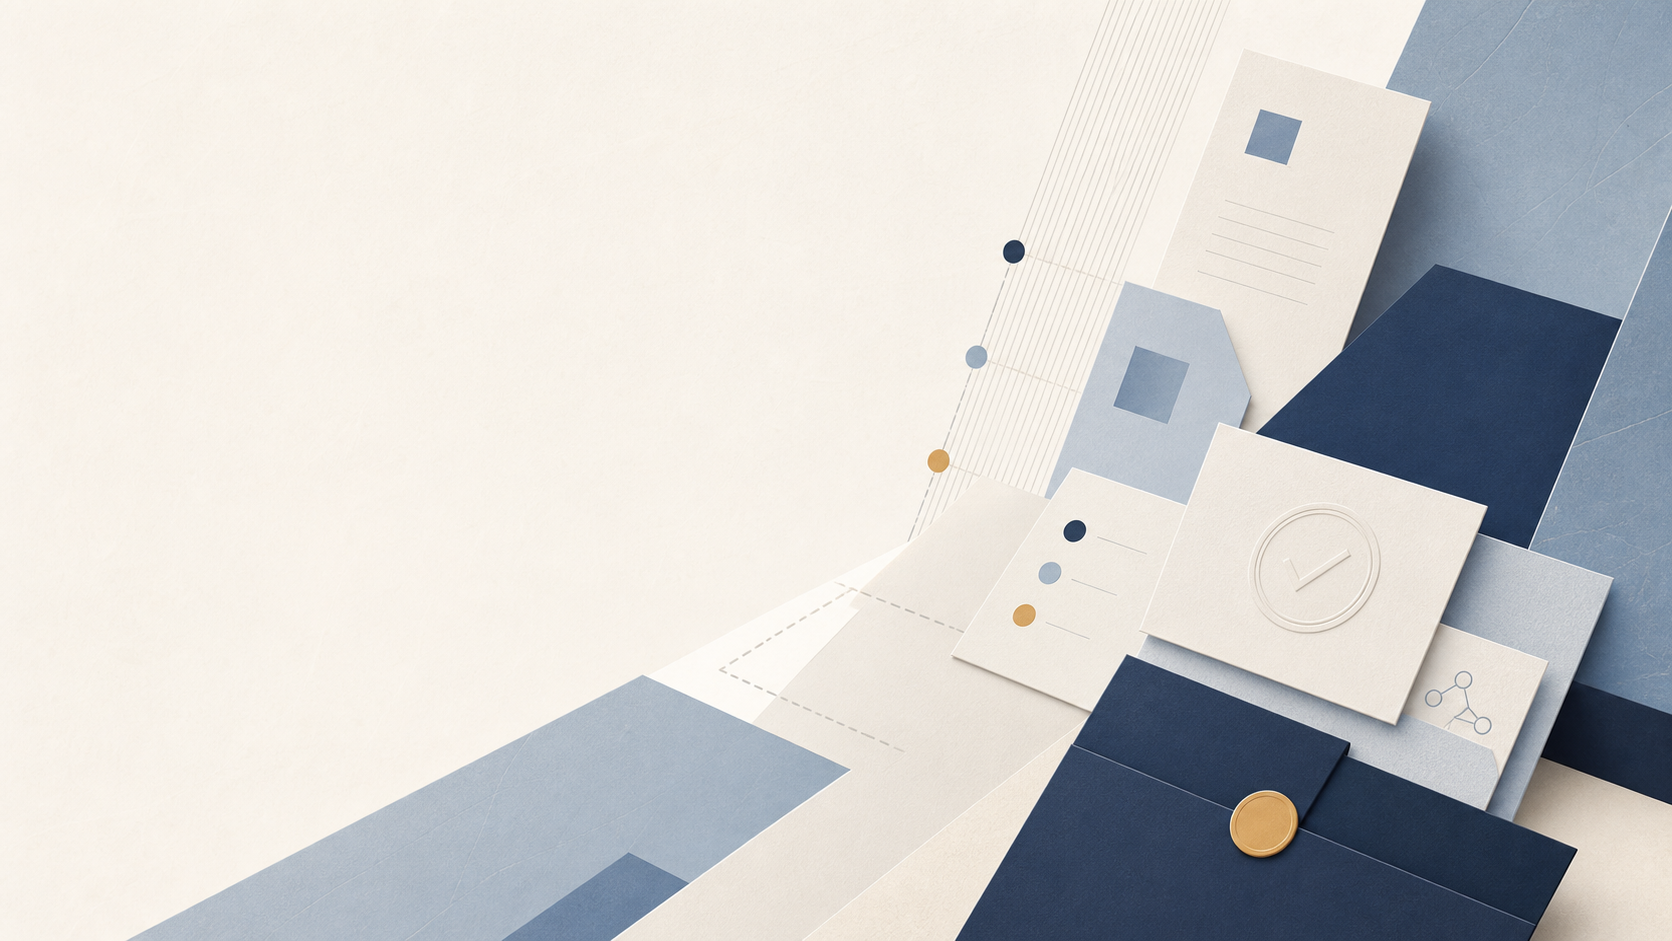
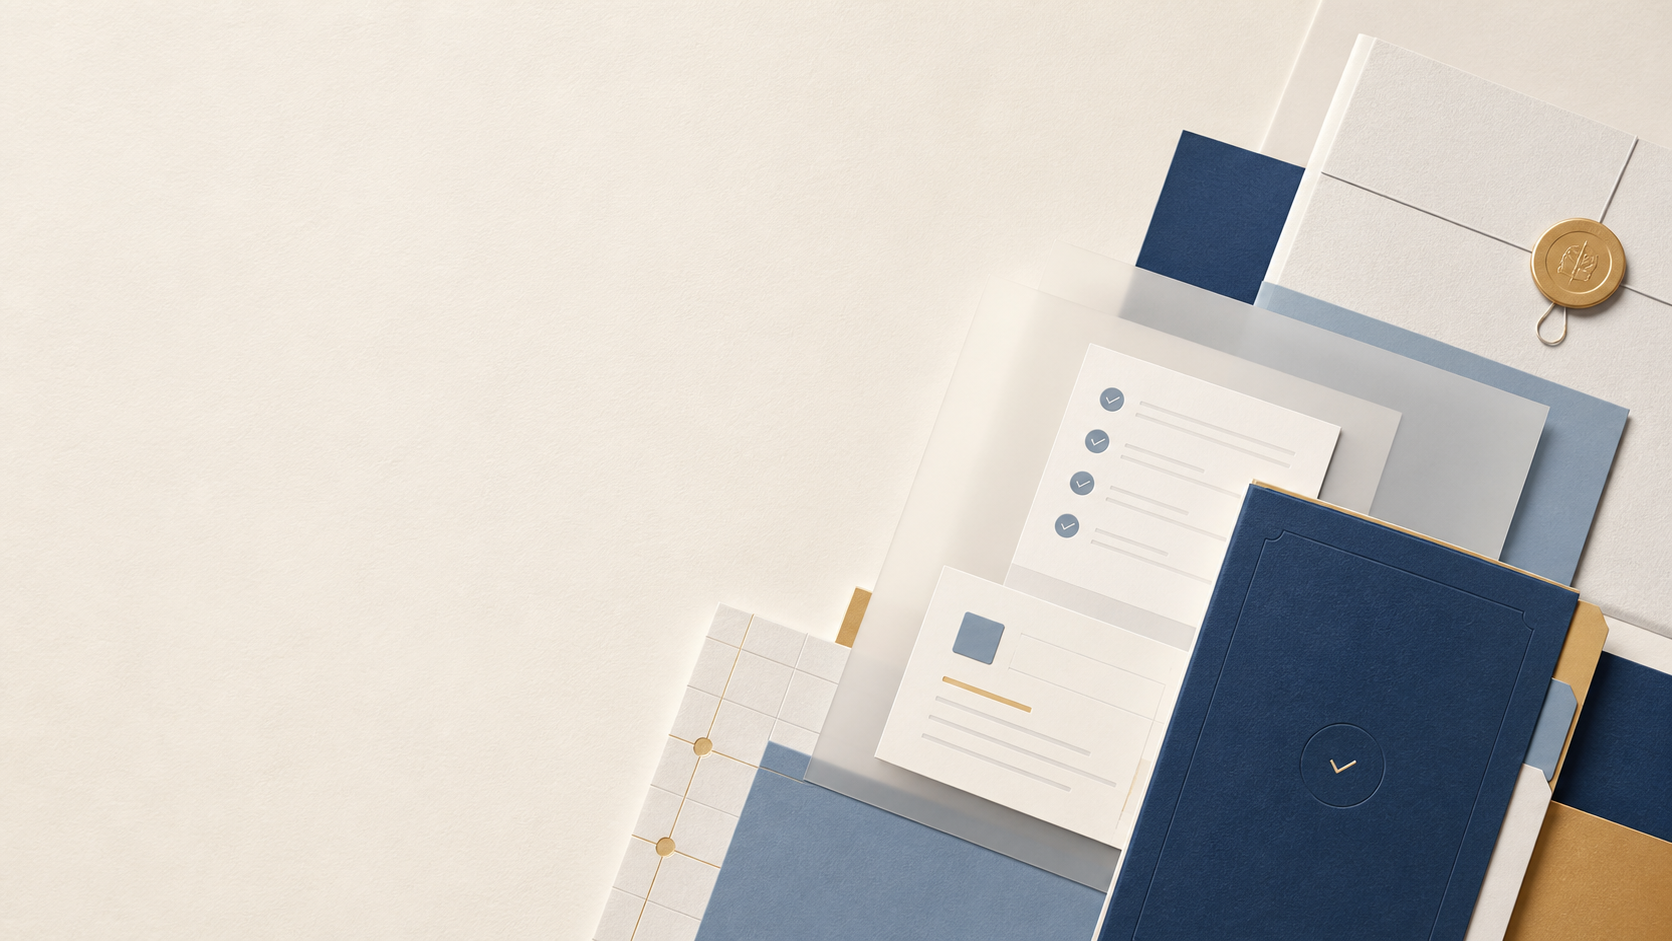
Allow live Codex image turns to finish
A real Codex OAuth image generation turn completed successfully after 252553ms, which is longer than the desktop Tauri bridge's previous 180s structured-turn timeout. The image path now opts into a 600000ms turn timeout while generic structured turns keep the existing default, and release evidence is refreshed with the successful same-job billing, image, queue, and usage summary artifacts.

Constraint: Image generation must use the signed-in Codex/App Server OAuth path rather than API keys.

Constraint: Latest successful product-run image turn duration was 252553ms.

Rejected: Treat the timeout as a transient failure | product bridge would still fail long but valid image turns at 180s.

Confidence: high

Scope-risk: moderate

Directive: Do not lower the image structured-turn timeout without rerunning a real Codex OAuth image smoke that completes below the new limit.

Tested: bun scripts/run-live-codex-generate-export-smoke.ts

Tested: bun scripts/generate-df244-product-usage-confirmation-summary.mjs

Tested: bun test src/lib/desktop-codex-image-generation.test.ts src/lib/desktop-app-server-bridge.test.ts src/lib/packaged-live-evidence-index-artifact.test.ts src/lib/live-image-queue-controls-doc.test.ts src/lib/live-usage-summary-doc.test.ts src/lib/live-readiness-doc.test.ts src/lib/live-packaging-doc.test.ts

Tested: cargo test --manifest-path src-tauri/Cargo.toml codex_app_server_structured_turn

Tested: bun run typecheck

Tested: bun run lint
[…]

diff --git a/deck-scribe-craft-07/src/lib/desktop-codex-image-generation.test.ts b/deck-scribe-craft-07/src/lib/desktop-codex-image-generation.test.ts
@@ -24,6 +24,7 @@ describe("desktop Codex image generation", () => {
           expect(JSON.stringify(args).includes("slide_001_layout.png")).toBe(true);
           const request = structuredTurnRequest(args);
           expect(findLooseObjectSchemaPaths(request.outputSchema)).toEqual([]);
+          expect(request.turnTimeoutMs).toBe(600_000);
           return {
             runtime: "codex app-server --stdio",
             threadId: "thread_codex_image",
@@ -117,11 +118,18 @@ async function captureProviderError(
   }
 }
 
-function structuredTurnRequest(args: unknown): { readonly outputSchema: unknown } {
+function structuredTurnRequest(args: unknown): {
+  readonly outputSchema: unknown;
+  readonly turnTimeoutMs?: number;
+} {
   if (!isRecord(args)) throw new Error("Expected invoke args.");
   const request = args["request"];
   if (!isRecord(request)) throw new Error("Expected structured turn request.");
-  return { outputSchema: request["outputSchema"] };
+  return {
+    outputSchema: request["outputSchema"],
+    turnTimeoutMs:
+      typeof request["turnTimeoutMs"] === "number" ? request["turnTimeoutMs"] : undefined,
+  };
 }
 
 function findLooseObjectSchemaPaths(value: unknown, path = "$"): readonly string[] {

diff --git a/deck-scribe-craft-07/scripts/live-app-server-turns.ts b/deck-scribe-craft-07/scripts/live-app-server-turns.ts
@@ -24,7 +24,7 @@ export async function runStructuredTurn(
     await initializeSession(session, "deckforge-live-app-surface");
     const threadId = await startThread(session, request);
     const turnId = await startTurn(session, threadId, request);
-    await session.waitForMethod("turn/completed", TURN_TIMEOUT_MS);
+    await session.waitForMethod("turn/completed", turnTimeoutMs(request));
     const notifications = session.notifications();
     return {
       runtime: "codex app-server --stdio",
@@ -159,6 +159,10 @@ function validateStructuredTurnRequest(request: StructuredTurnRequest): void {
 function modelName(request: Pick<StructuredTurnRequest, "model">): string {
   const trimmed = request.model?.trim();
   return trimmed && trimmed.length > 0 ? trimmed : DEFAULT_MODEL;
+}
+
+function turnTimeoutMs(request: Pick<StructuredTurnRequest, "turnTimeoutMs">): number {
+  return request.turnTimeoutMs ?? TURN_TIMEOUT_MS;
 }
 
 function collectEventMethods(notifications: readonly JsonRpcNotification[]): readonly string[] {

diff --git a/deck-scribe-craft-07/scripts/live-codex-generate-export-smoke-support.ts b/deck-scribe-craft-07/scripts/live-codex-generate-export-smoke-support.ts
@@ -10,6 +10,7 @@ import { mockBrief, mockDesign, mockLayout, mockPlan, mockResearch } from "../sr
 import { runStructuredTurn, type StructuredTurnEvidence } from "./live-app-server-json-rpc";
 
 const IMAGE_TURN_MODEL = "gpt-5.4";
+const IMAGE_TURN_TIMEOUT_MS = 600_000;
 
 const IMAGE_GENERATION_OUTPUT_SCHEMA = {
   type: "object",
@@ -200,6 +201,7 @@ function buildImageTurnRequest(request: CodexImageClientRequest) {
     outputSchema: IMAGE_GENERATION_OUTPUT_SCHEMA,
     model: IMAGE_TURN_MODEL,
     networkAccess: false,
+    turnTimeoutMs: IMAGE_TURN_TIMEOUT_MS,
   };
 }
 

diff --git a/deck-scribe-craft-07/src/lib/desktop-app-server-bridge.test.ts b/deck-scribe-craft-07/src/lib/desktop-app-server-bridge.test.ts
@@ -112,6 +112,7 @@ describe("desktop app server bridge", () => {
               outputSchema,
               model: "gpt-5.4",
               networkAccess: false,
+              turnTimeoutMs: 600_000,
             },
           });
           return {
@@ -145,6 +146,7 @@ describe("desktop app server bridge", () => {
         outputSchema,
         model: "gpt-5.4",
         networkAccess: false,
+        turnTimeoutMs: 600_000,
       },
       runtime,
     );

diff --git a/deck-scribe-craft-07/src/lib/desktop-codex-image-generation.ts b/deck-scribe-craft-07/src/lib/desktop-codex-image-generation.ts
@@ -13,6 +13,7 @@ import {
 import { ImageProviderRequestError } from "./image-provider-errors";
 
 const IMAGE_TURN_MODEL = "gpt-5.4";
+const IMAGE_TURN_TIMEOUT_MS = 600_000;
 
 const IMAGE_GENERATION_OUTPUT_SCHEMA = {
   type: "object",
@@ -105,6 +106,7 @@ function buildDesktopImageTurnRequest(
     outputSchema: IMAGE_GENERATION_OUTPUT_SCHEMA,
     model: IMAGE_TURN_MODEL,
     networkAccess: false,
+    turnTimeoutMs: IMAGE_TURN_TIMEOUT_MS,
   };
 }
 

diff --git a/deck-scribe-craft-07/scripts/live-app-server-types.ts b/deck-scribe-craft-07/scripts/live-app-server-types.ts
@@ -10,6 +10,7 @@ export type StructuredTurnRequest = {
   readonly outputSchema: unknown;
   readonly model?: string;
   readonly networkAccess?: boolean;
+  readonly turnTimeoutMs?: number;
 };
 
 export type StructuredTurnEvidence = {

diff --git a/deck-scribe-craft-07/src/lib/desktop-app-server-bridge.ts b/deck-scribe-craft-07/src/lib/desktop-app-server-bridge.ts
@@ -59,6 +59,7 @@ export type DesktopCodexAppServerStructuredTurnRequest = {
   readonly outputSchema: unknown;
   readonly model?: string;
   readonly networkAccess?: boolean;
+  readonly turnTimeoutMs?: number;
 };
 
 export type DeckforgeTauriInvoke = (

diff --git a/deck-scribe-craft-07/src-tauri/src/codex_app_server_structured_turn.rs b/deck-scribe-craft-07/src-tauri/src/codex_app_server_structured_turn.rs
@@ -9,6 +9,7 @@ use std::time::{Duration, Instant};
 
 const REQUEST_TIMEOUT: Duration = Duration::from_secs(60);
 const TURN_TIMEOUT: Duration = Duration::from_secs(180);
+const MAX_TURN_TIMEOUT_MS: u64 = 30 * 60 * 1_000;
 const DEFAULT_MODEL: &str = "gpt-5.4";
 
 #[derive(Debug, Clone, Deserialize)]
@@ -18,6 +19,7 @@ pub struct CodexAppServerStructuredTurnRequest {
     pub output_schema: Value,
     pub model: Option<String>,
     pub network_access: Option<bool>,
+    pub turn_timeout_ms: Option<u64>,
 }
 
 #[derive(Debug, Clone, Serialize)]
@@ -43,7 +45,7 @@ pub fn run_codex_app_server_structured_turn(
     initialize_session(&mut session)?;
     let thread_id = start_thread(&mut session, &request)?;
     let turn_id = start_turn(&mut session, &thread_id, &request)?;
-    session.wait_for_method("turn/completed", TURN_TIMEOUT)?;
+    session.wait_for_method("turn/completed", turn_timeout(&request))?;
     let duration_ms = duration_millis(started_at.elapsed());
     let notifications = session.take_notifications();
     let event_methods = collect_event_methods(&notifications);
@@ -168,6 +170,14 @@ fn validate_request(request: &CodexAppServerStructuredTurnRequest) -> SmokeResul
             "outputSchema must be a JSON object".to_owned(),
         ));
     }
+    if let Some(timeout_ms) = request.turn_timeout_ms {
+        if timeout_ms == 0 || timeout_ms > MAX_TURN_TIMEOUT_MS {
+            return Err(CodexAppServerSmokeError::new(
+                "invalid_structured_turn_request",
+                format!("turnTimeoutMs must be between 1 and {MAX_TURN_TIMEOUT_MS}"),
+            ));
+        }
+    }
     Ok(())
 }
 
@@ -180,6 +190,13 @@ fn model_name(request: &CodexAppServerStructuredTurnRequest) -> String {
 
 fn network_access(request: &CodexAppServerStructuredTurnRequest) -> bool {
     request.network_access == Some(true)
+}
+
+fn turn_timeout(request: &CodexAppServerStructuredTurnRequest) -> Duration {
+    request
+        .turn_timeout_ms
+        .map(Duration::from_millis)
+        .unwrap_or(TURN_TIMEOUT)
 }
 
 fn collect_event_methods(notifications: &[Value]) -> Vec<String> {
@@ -205,7 +222,7 @@ fn duration_millis(duration: Duration) -> u64 {
 #[cfg(test)]
 mod tests {
     use super::{
-        build_turn_start_params, collect_event_methods, model_name,
+        build_turn_start_params, collect_event_methods, model_name, turn_timeout, validate_request,
         CodexAppServerStructuredTurnRequest,
     };
     use serde_json::json;
@@ -223,6 +240,7 @@ mod tests {
             }),
             model: Some("gpt-5.4-mini".to_owned()),
             network_access: Some(false),
+            turn_timeout_ms: None,
         };
 
         let params = build_turn_start_params("thread_live", &request);
@@ -234,6 +252,41 @@ mod tests {
         assert_eq!(params["sandboxPolicy"]["type"], "readOnly");
         assert_eq!(params["sandboxPolicy"]["networkAccess"], false);
         assert_eq!(model_name(&request), "gpt-5.4-mini");
+    }
+
+    #[test]
+    fn uses_custom_turn_timeout_without_changing_turn_params() {
+        let request = CodexAppServerStructuredTurnRequest {
+            prompt: "Return JSON only.".to_owned(),
+            output_schema: json!({ "type": "object" }),
+            model: None,
+            network_access: None,
+            turn_timeout_ms: Some(600_000),
+        };
+
+        let params = build_turn_start_params("thread_live", &request);
+
+        assert!(validate_request(&request).is_ok());
+        assert_eq!(turn_timeout(&request), std::time::Duration::from_secs(600));
+        assert!(params.get("turnTimeoutMs").is_none());
+    }
+
+    #[test]
+    fn rejects_out_of_range_turn_timeout() {
+        let request = CodexAppServerStructuredTurnRequest {
+            prompt: "Return JSON only.".to_owned(),
+            output_schema: json!({ "type": "object" }),
+            model: None,
+            network_access: None,
+            turn_timeout_ms: Some(0),
+        };
+
+        let error = validate_request(&request).err();
+
+        assert_eq!(
+            error.as_ref().map(|error| error.code.as_str()),
+            Some("invalid_structured_turn_request")
+        );
     }
 
     #[test]

diff --git a/deck-scribe-craft-07/docs/live-usage-summary.md b/deck-scribe-craft-07/docs/live-usage-summary.md
@@ -187,12 +187,14 @@ produces and exports this confirmation JSON.
 
 2026-06-22 KST live product-run smoke: desktop Codex image generation now sends
 the App Server response schema with `additionalProperties: false`, which fixed a
-pre-generation `invalid_json_schema` failure. The smoke runner
-`scripts/run-live-codex-generate-export-smoke.ts` completed one real Codex image
-turn through the product Generate runner and wrote a same-job confirmation JSON,
-versioned PNG metadata/provenance, DF-233 queue evidence, and a project folder
-export summary with `5` project artifact writes and no cross-project writes. The
-summary lives at
+pre-generation `invalid_json_schema` failure. It also sends a 600000ms
+structured-turn timeout for image generation, because the latest real Codex
+image turn completed in `252553ms`, beyond the previous 180s Tauri bridge limit.
+The smoke runner `scripts/run-live-codex-generate-export-smoke.ts` completed one
+real Codex image turn through the product Generate runner and wrote a same-job
+confirmation JSON, versioned PNG metadata/provenance, DF-233 queue evidence, and
+a project folder export summary with `5` project artifact writes and no
+cross-project writes. The summary lives at
 `docs/live-evidence/codex-image/df244-generate-export-smoke-20260622/summary.json`.
 This is product-run evidence for the Generate path and export contract, not a
 packaged UI manual QA pass; DF-244 remains open until a packaged app run
@@ -203,9 +205,9 @@ consumes the product-run confirmation JSON from
 `df244_generate_export_smoke_20260622` and emits
 `confirmed_app_surface_pre_generation_codex_oauth` in
 `docs/live-evidence/codex-image/df244-generate-export-usage-summary-20260622.json`
-(`sha256:0776224d96f02140f7ee6f03a8a09ba5d56b5b8c8c6142b545b7de722e31b49f`).
+(`sha256:19d477e67d91cb35f3787c74b76fa2ce2d5755049a6986d32ae79bfcc19e4297`).
 The summary records provider `codex`, `imageCount: 1`, total latency
-`136903ms`, hidden cost because no billable cost was supplied, and the canonical
+`252553ms`, hidden cost because no billable cost was supplied, and the canonical
 confirmation record path from the same product run. This proves the usage
 summary resolver can consume persisted product confirmation, but DF-244 still
 needs the same evidence from a packaged app UI run.

diff --git a/deck-scribe-craft-07/docs/live-issue-progress.md b/deck-scribe-craft-07/docs/live-issue-progress.md
@@ -1468,11 +1468,13 @@ those real packaged-run artifacts are produced and copied into
 
 DF-244/DF-233 live product-run smoke: the desktop Codex image structured-turn
 schema now declares `additionalProperties: false`, fixing the App Server
-`invalid_json_schema` failure observed before image generation. The smoke runner
-`scripts/run-live-codex-generate-export-smoke.ts` completed one real Codex image
-turn through the product Generate runner, thread
-`019eec6f-bc99-78c1-abc4-8905807608a4`, turn
-`019eec6f-bf06-7803-9349-637f743172cd`, duration `136903ms`, and wrote
+`invalid_json_schema` failure observed before image generation. Image generation
+also now requests a 600000ms structured-turn timeout, because the latest real
+Codex image run exceeded the previous 180s Tauri bridge limit before succeeding.
+The smoke runner `scripts/run-live-codex-generate-export-smoke.ts` completed one
+real Codex image turn through the product Generate runner, thread
+`019eed00-dc75-7702-a706-88426836b0a0`, turn
+`019eed00-dea8-70f0-acf6-2b497311136a`, duration `252553ms`, and wrote
 `docs/live-evidence/codex-image/df244-generate-export-smoke-20260622/summary.json`.
 The run produced
 `projects/df244_generate_export_smoke_20260622/slides/images/slide_001.v1.png`,
@@ -1517,9 +1519,9 @@ fed the real product-run confirmation JSON from
 `df244_generate_export_smoke_20260622` through the Lane D confirmation resolver
 and wrote
 `docs/live-evidence/codex-image/df244-generate-export-usage-summary-20260622.json`
-(`sha256:0776224d96f02140f7ee6f03a8a09ba5d56b5b8c8c6142b545b7de722e31b49f`).
+(`sha256:19d477e67d91cb35f3787c74b76fa2ce2d5755049a6986d32ae79bfcc19e4297`).
 The summary now reports `confirmed_app_surface_pre_generation_codex_oauth`,
-provider `codex`, `imageCount: 1`, latency `136903ms`, hidden cost, and the
+provider `codex`, `imageCount: 1`, latency `252553ms`, hidden cost, and the
 same product confirmation record path. This removes the product-run usage
 resolver gap, but DF-244 remains open until packaged UI manual QA captures and
 displays the persisted confirmation from the same real image job.

diff --git a/deck-scribe-craft-07/docs/live-image-queue-controls.md b/deck-scribe-craft-07/docs/live-image-queue-controls.md
@@ -161,8 +161,9 @@ restart-resume evidence.
 ## Live Generate Export Smoke
 
 2026-06-22 KST product-run smoke tightened the desktop Codex image App Server
-response schema with `additionalProperties: false` and then ran one real Codex
-image turn through the product Generate runner. The run wrote queue evidence at
+response schema with `additionalProperties: false`, extended image structured
+turns to a 600000ms timeout, and then ran one real Codex image turn through the
+product Generate runner in `252553ms`. The run wrote queue evidence at
 `projects/df244_generate_export_smoke_20260622/live-evidence/df233-image-queue-job_generate_export_smoke_1.json`,
 recorded one succeeded Codex image job, stored
 `projects/df244_generate_export_smoke_20260622/slides/images/slide_001.v1.png`,

diff --git a/deck-scribe-craft-07/docs/live-release-decision.md b/deck-scribe-craft-07/docs/live-release-decision.md
@@ -107,7 +107,7 @@ Release remains `Blocked`. No ticket in the Lane F set can honestly close from t
[1 lines of base64/hex data omitted]
 - `src/lib/live-usage-summary.ts` blocks missing, blank, or duplicated usage stage ids, unsupported runtime provider kinds, missing provider usage summaries, empty provider-supplied usage objects, incomplete Codex token pairs, image usage evidence without image counts, invalid usage/cost amounts, zero-duration or otherwise invalid duration/retry data, unsupported runtime cost labels, unlabelled estimated costs, estimated costs labelled as exact charges, missing image Codex usage confirmation, API-key-required image disclosure, and Codex image usage confirmation without persisted non-synthetic, non-local `confirmationEvidencePath` JSON evidence tied to the same provider job id, while avoiding false image-billing blockers for complete Codex text usage that happens to use `stageId: "generate"`; `src/lib/live-usage-billing-evidence.ts` also requires `apiKeyRequired: false` and rejects boundary-whitespace-padded, fallback `unknown` project/job, template/sample/example/placeholder, generic usage confirmation JSON paths that do not end in `image-billing-confirmation.json`, or confirmation paths copied from a different job before summary approval, formatted summaries, audit report lines, or progress display. `src/lib/live-usage-billing-same-job.test.ts` locks that same-job regression across summary, app progress, and audit report surfaces. `src/lib/live-app-server-usage-summary.ts` maps App Server `thread/tokenUsage/updated` notifications into text usage summaries and preserves malformed supplied numeric usage/cost fields as invalid evidence instead of silently dropping them; `formatLiveUsageSummary` and `src/lib/audit-log.ts` render `estimatedCostUsd` as `cost estimate`, redact image usage disclosure labels, and render evidence-less or API-key-required confirmed-looking image usage as not confirmed; and `src/components/deck/ProviderJobProgressPanel.tsx` now renders provider id, measured duration, retry count, valid usage items, estimated provider cost labels, confirmed Codex image usage disclosure labels only with `apiKeyRequired: false`, persisted non-local evidence, matching provider job id, and user confirmation, unconfirmed/evidence-less/API-key-required/developer-local/template/generic/non-canonical Codex image usage status, wrong-job confirmation status, and redacted secret-like usage label text in the app progress surface while omitting invalid provider payload amounts from visible usage rows. Live Codex usage probe turn `019edc53-3bfe-76d3-912d-31769ee3fd3f` produced 25,006 input tokens and 141 output tokens, but packaged app-surface usage summary manual QA with real provider image Codex usage payloads is still missing.
 - `src/lib/live-usage-stage-identity.ts` now rejects missing, blank, non-canonical, or duplicated usage stage ids, so a whitespace-padded `generate` stage cannot bypass exact generate-stage image confirmation checks while still rendering as displayable after trimming.
-- `src/lib/live-image-billing-confirmation.ts`, `src/lib/live-image-billing-job.ts`, and `src/components/deck/GenerateStage.tsx` now give production `codex` image-generation jobs a product path to persist the pre-generation Codex OAuth image usage confirmation JSON, mirror it into project artifact storage at `projects/<project>/usage/<project>/<job>/image-billing-confirmation.json`, attach it to the job usage summary before generation starts, and cancel the queued image job if the evidence write fails. `src/lib/desktop-codex-image-generation.ts` now also sends the App Server image response schema as a strict object with `additionalProperties: false`; without that field, the live image turn failed before generation with `invalid_json_schema`. The product-run smoke summary at `docs/live-evidence/codex-image/df244-generate-export-smoke-20260622/summary.json` completed one real Codex image through the Generate runner and exported same-job image, billing, and queue artifacts. DF-244 still needs a packaged-app run to capture that actual persisted confirmation record alongside real image usage payloads and manual display evidence.
+- `src/lib/live-image-billing-confirmation.ts`, `src/lib/live-image-billing-job.ts`, and `src/components/deck/GenerateStage.tsx` now give production `codex` image-generation jobs a product path to persist the pre-generation Codex OAuth image usage confirmation JSON, mirror it into project artifact storage at `projects/<project>/usage/<project>/<job>/image-billing-confirmation.json`, attach it to the job usage summary before generation starts, and cancel the queued image job if the evidence write fails. `src/lib/desktop-codex-image-generation.ts` now also sends the App Server image response schema as a strict object with `additionalProperties: false`; without that field, the live image turn failed before generation with `invalid_json_schema`. Long-running image turns now request a 600000ms structured-turn timeout through `src/lib/desktop-app-server-bridge.ts` and `src-tauri/src/codex_app_server_structured_turn.rs`, because a latest real image run took 252553ms and would exceed the previous 180s Tauri bridge limit. The product-run smoke summary at `docs/live-evidence/codex-image/df244-generate-export-smoke-20260622/summary.json` completed one real Codex image through the Generate runner and exported same-job image, billing, and queue artifacts. DF-244 still needs a packaged-app run to capture that actual persisted confirmation record alongside real image usage payloads and manual display evidence.
 - The DF-244 product-run usage summary at `docs/live-evidence/codex-image/df244-generate-export-usage-summary-20260622.json` proves the Lane D confirmation resolver can consume that persisted product confirmation and produce `confirmed_app_surface_pre_generation_codex_oauth`, but it is still not packaged UI display evidence.
 - `scripts/lane-d-live-usage-confirmation.mjs` now keeps the Lane D packaged usage bundle evidence-driven: it changes `df244-usage-summary.json` to `confirmed_app_surface_pre_generation_codex_oauth` only after it finds a canonical persisted `usage/<project>/<job>/image-billing-confirmation.json` record whose internal `evidencePath` matches the product storage path. The current committed Lane D bundle remains blocked because that packaged-app confirmation JSON is not present yet.
 - `src/lib/production-packaging-evidence.ts` and `src/lib/production-packaging-evidence-payload.ts` block missing, synthetic, dry-run, transient `tmp`/`temp`/observer, or developer-local package archive, native bundle, runbook, or persisted `releaseTrustEvidencePath` evidence, including non-canonical clean-machine runbook paths, developer-local persisted `releaseTrustEvidencePath` JSON bundles, release-trust evidence paths that do not identify a release-trust bundle, non-canonical release-trust path strings with boundary whitespace, generic release-trust paths without codesign/notarytool/stapler/`spctl` assessment markers, release-trust payloads that omit matching package/native hashes or passed zero-exit codesign/notarytool/stapler/spctl assessment records, missing package/native macOS bundle hashes, missing, placeholder, malformed, non-canonical, or boundary-whitespace-padded Developer ID TeamIdentifier evidence, missing notarization/stapling, Gatekeeper rejection, non-production package evidence, package content contamination, invalid, missing, duplicated, evidence-pathless, cross-step, reused-path, boundary-whitespace-padded, or payload-drifted clean-machine step evidence, missing/generic/non-canonical/developer-local/boundary-whitespace-padded clean macOS account evidence, clean-machine account payloads that still identify the developer account, and missing runtime remediation. Clean-machine summaries count valid distinct checklist steps only, so repeated, cross-step, reused-path, padded, unsupported, or payload-drifted step labels cannot inflate coverage. The native DMG has been regenerated and scanned clean, but fresh macOS account validation, Developer ID signing, notarization, persisted release-trust assessment bundle capture, and Gatekeeper acceptance have not been recorded.